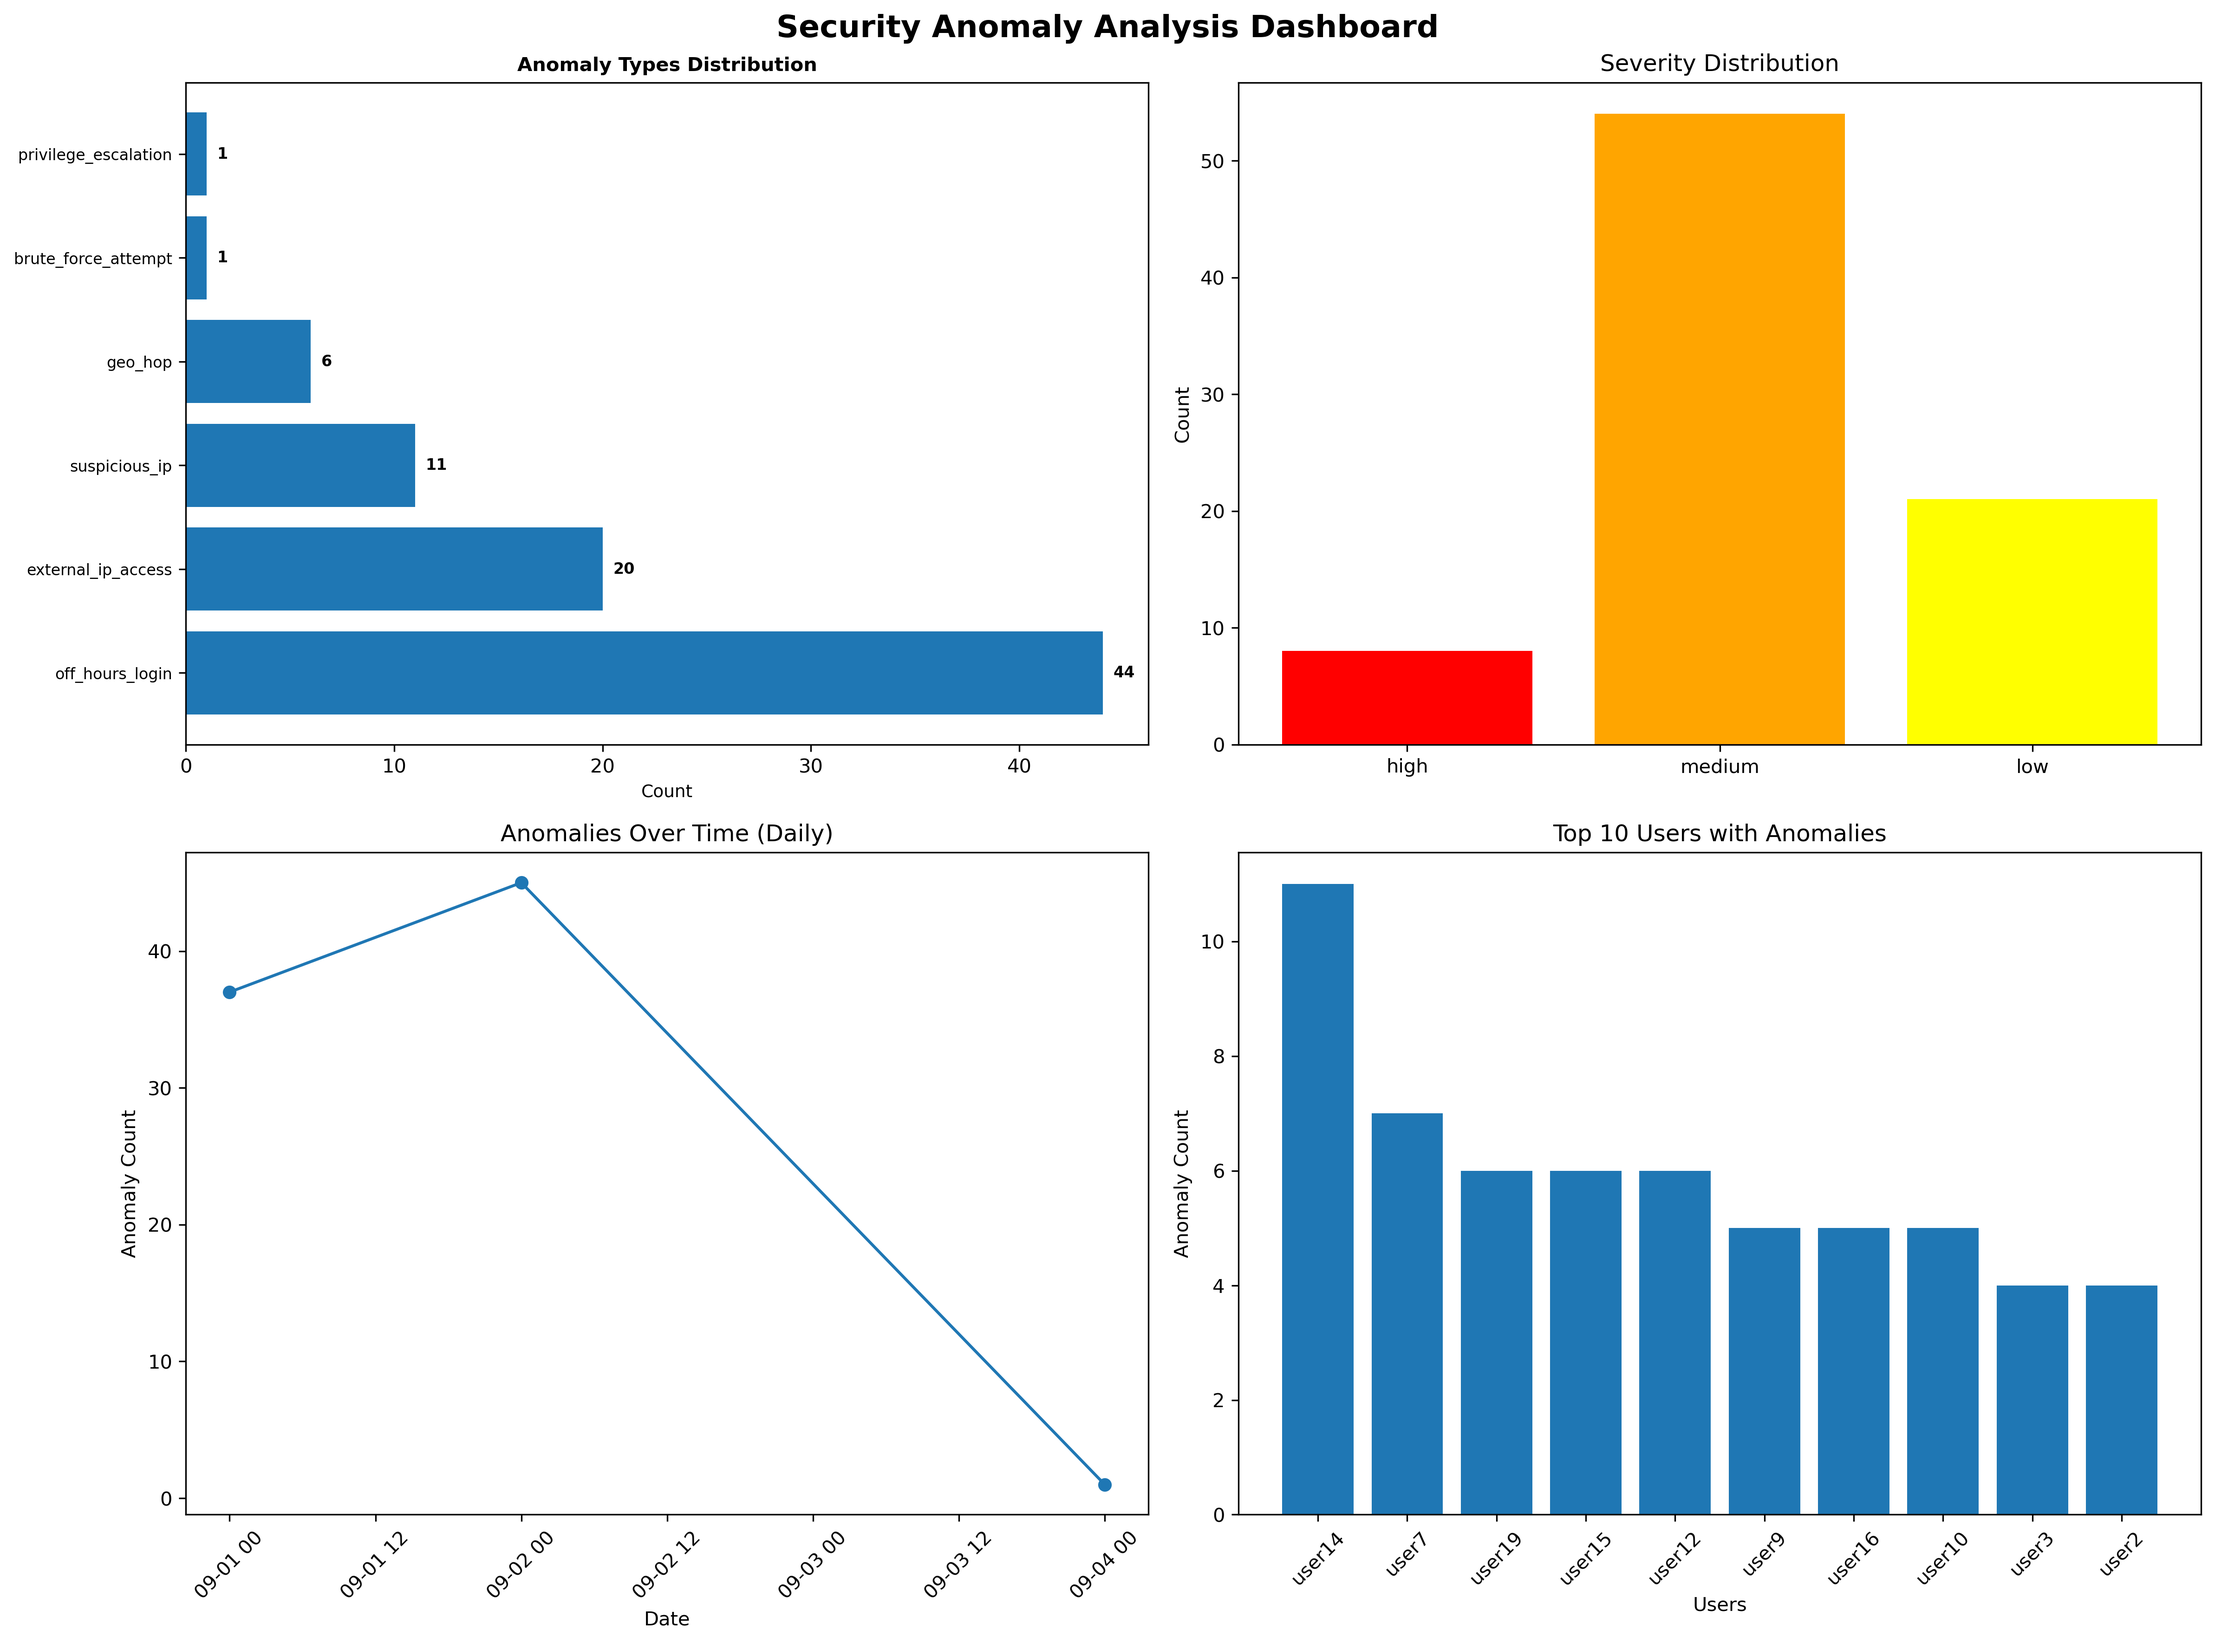
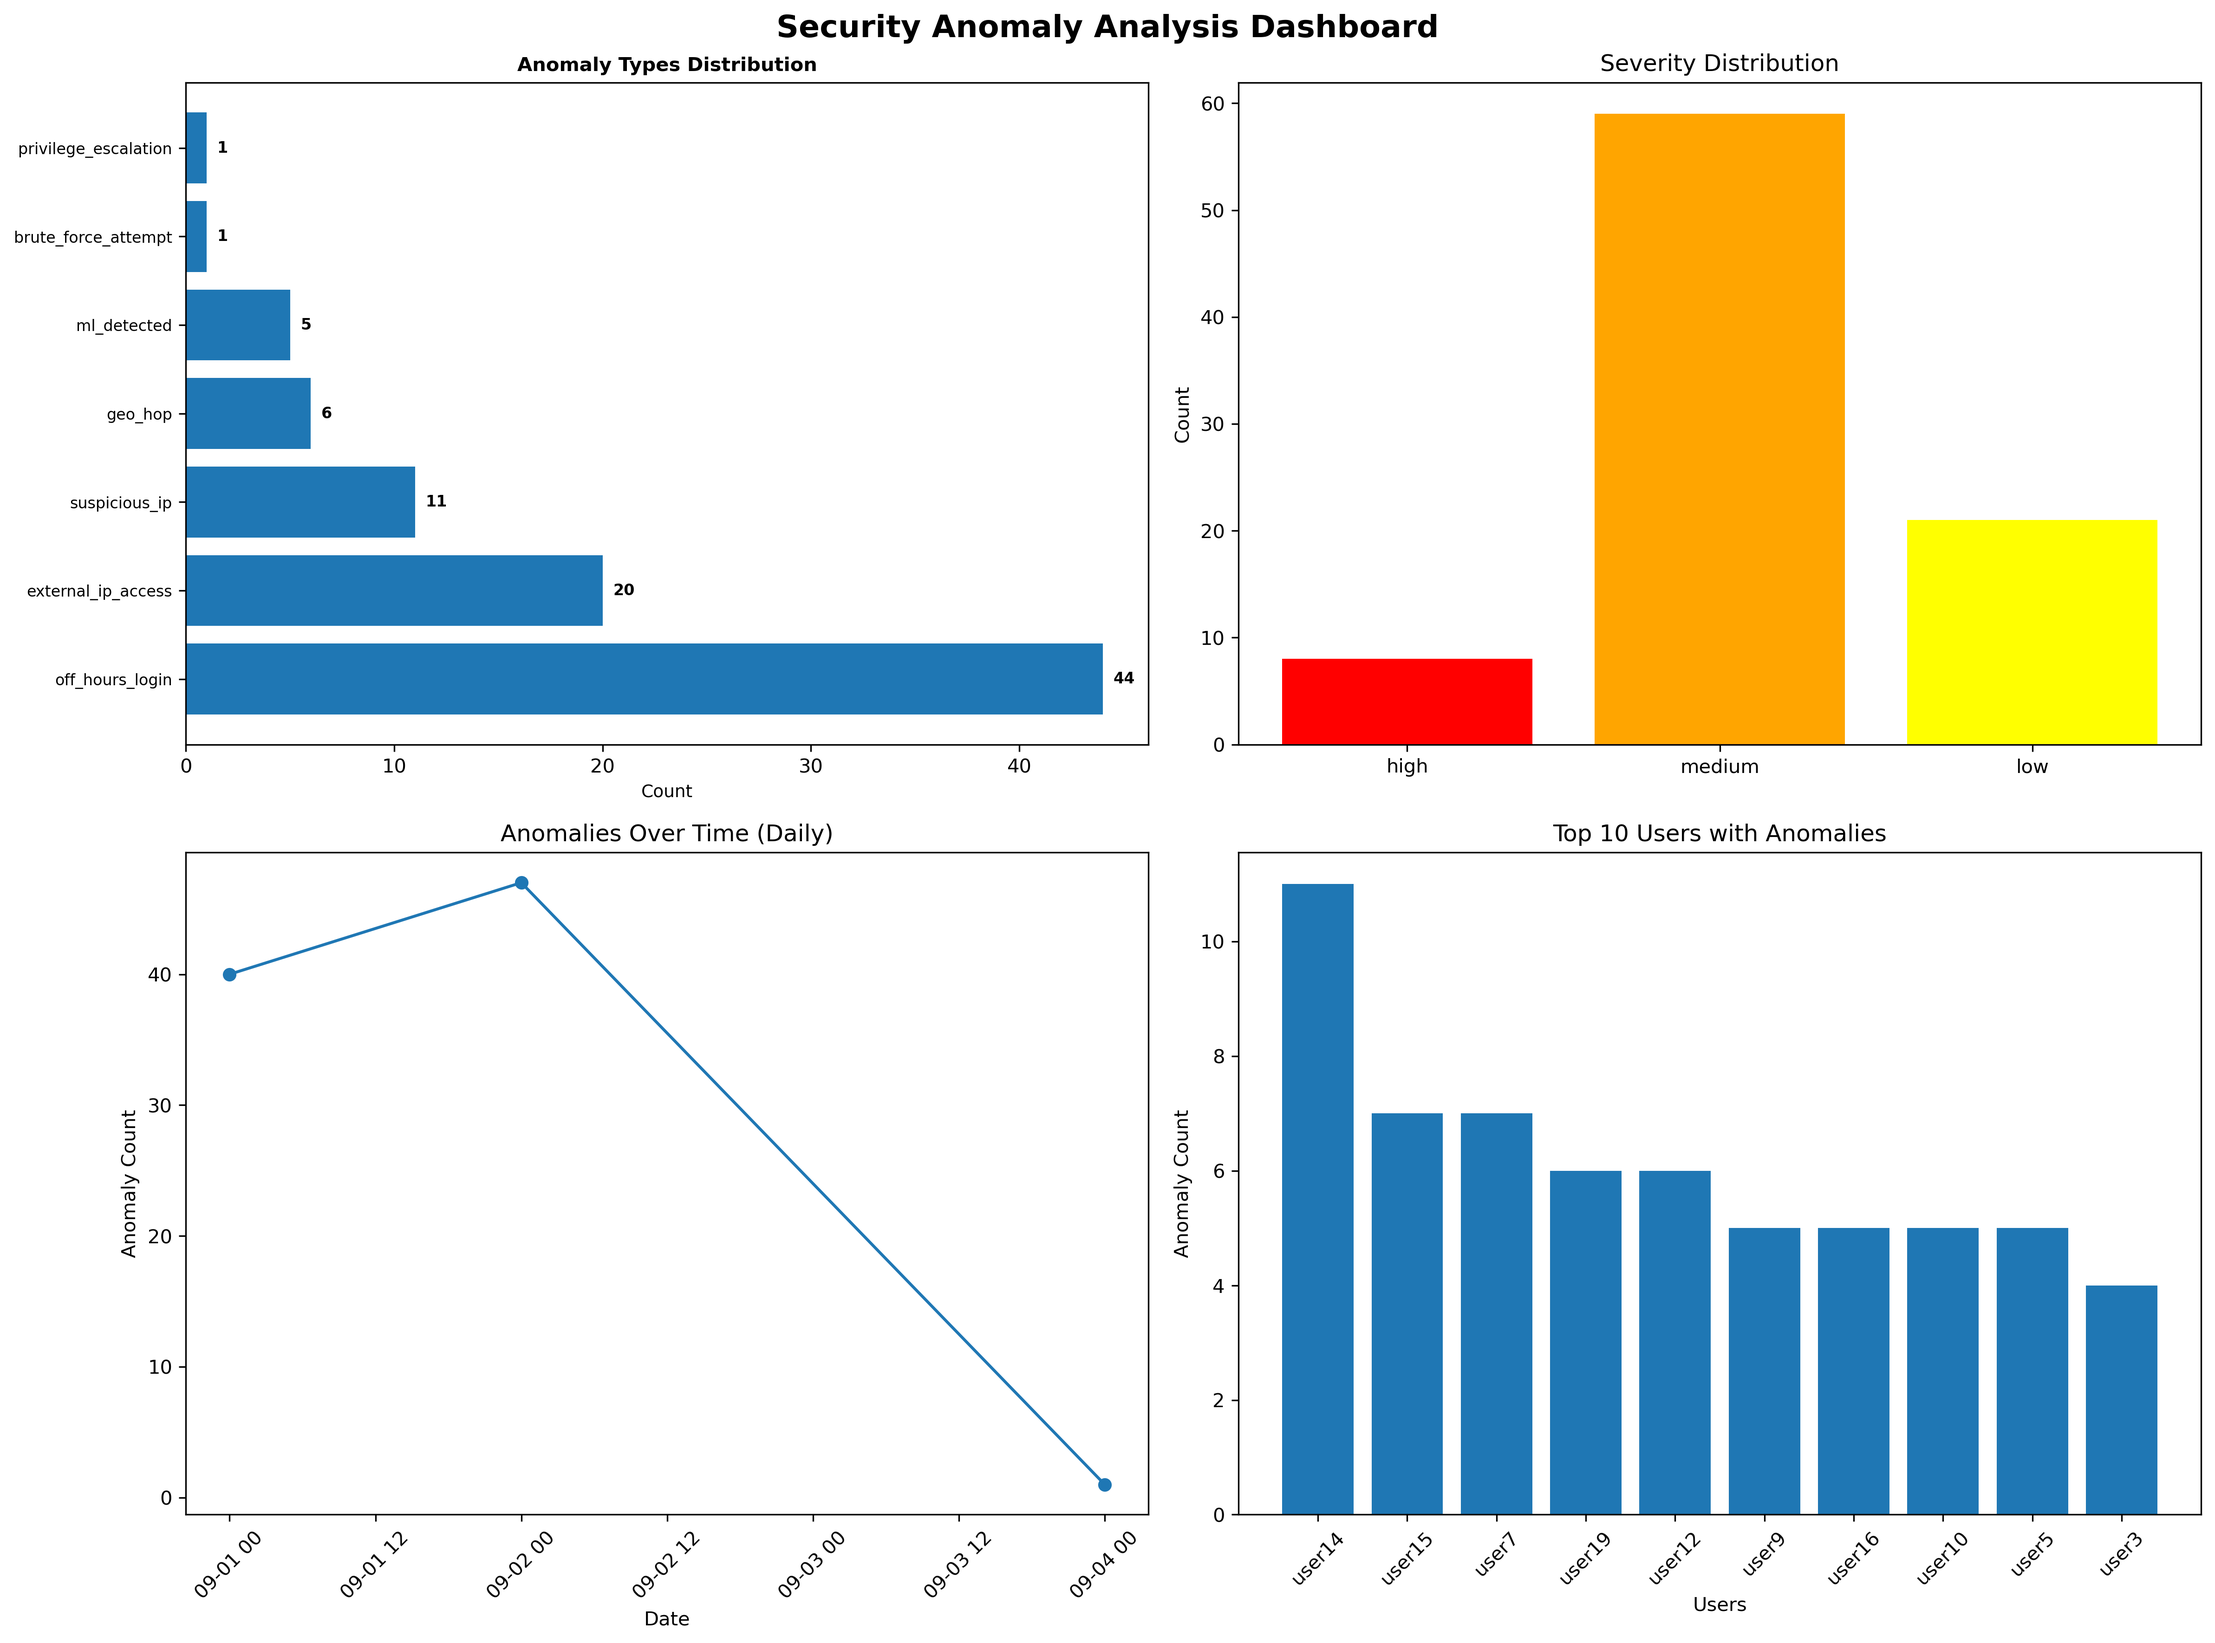
Enhance anomaly detection by integrating Isolation Forest ML model and updating README.

diff --git a/Security/detect_anomalies.py b/Security/detect_anomalies.py
@@ -11,6 +11,7 @@ from datetime import datetime, timedelta
 from collections import defaultdict, Counter
 from typing import List, Dict, Any, Tuple
 import ipaddress
+from sklearn.ensemble import IsolationForest
 
 class SecurityAnomalyDetector:
     def __init__(self, csv_file: str):
@@ -93,12 +94,13 @@ class SecurityAnomalyDetector:
                 "Alert security team for potential account takeover",
                 "Review user's recent activity for unauthorized access"
             ])
-        elif anomaly_type == 'data_exfiltration':
+        elif anomaly_type == 'ml_detected':
             mitigations.extend([
-                "Immediately suspend user account and network access",
-                "Block all download capabilities for the user",
-                "Alert security team and management immediately",
-                "Preserve all logs and evidence for investigation"
+                "Review user activity patterns for unusual behavior",
+                "Correlate with other security alerts and logs",
+                "Monitor user for additional suspicious activity",
+                "Consider additional authentication requirements",
+                "Investigate the specific features that triggered the anomaly"
             ])
         
         return mitigations
@@ -352,33 +354,52 @@ class SecurityAnomalyDetector:
                 elif row['action'] == 'login_success':
                     failed_count = 0
     
-    def detect_data_exfiltration(self):
-        """Detect potential data exfiltration (multiple downloads)."""
-        print("Detecting potential data exfiltration...")
+    
+    def detect_ml_anomalies(self):
+        """Detect anomalies using ML (Isolation Forest)."""
+        print("Detecting anomalies using ML (Isolation Forest)...")
         
-        for user in self.df['user_id'].unique():
-            user_data = self.df[self.df['user_id'] == user].sort_values('timestamp')
-            downloads = user_data[user_data['action'] == 'download_file']
+        df = self.df.copy()
+        
+        # Feature engineering
+        df['hour'] = df['timestamp'].dt.hour
+        df['action_code'] = df['action'].astype('category').cat.codes
+        df['ip_numeric'] = df['ip_address'].apply(
+            lambda ip: sum([int(part) << (8 * i) for i, part in enumerate(reversed(ip.split('.')))])
+        )
+        
+        # Prepare features for ML model
+        features = df[['hour', 'action_code', 'ip_numeric']]
+        
+        # Train Isolation Forest model
+        clf = IsolationForest(contamination=0.01, random_state=42)
+        df['ml_anomaly'] = clf.fit_predict(features)
+        
+        # Get anomalies (predicted as -1)
+        anomalies = df[df['ml_anomaly'] == -1]
+        
+        # Add ML-detected anomalies to the main anomalies list
+        for _, row in anomalies.iterrows():
+            anomaly_details = {
+                'features_used': {
+                    'hour': int(row['hour']),
+                    'action_code': int(row['action_code']),
+                    'ip_numeric': int(row['ip_numeric'])
+                },
+                'ml_model': 'IsolationForest',
+                'contamination_rate': 0.01
+            }
             
-            if len(downloads) >= 8:  # 8 or more downloads
-                time_span = downloads.iloc[-1]['timestamp'] - downloads.iloc[0]['timestamp']
-                if time_span <= timedelta(hours=1):  # Within 1 hour
-                    anomaly_details = {
-                        'download_count': len(downloads),
-                        'time_span_hours': time_span.total_seconds() / 3600,
-                        'download_times': [d['timestamp'].isoformat() for _, d in downloads.iterrows()]
-                    }
-                    
-                    self.anomalies.append({
-                        'timestamp': downloads.iloc[0]['timestamp'].isoformat(),
-                        'user_id': user,
-                        'ip_address': downloads.iloc[0]['ip_address'],
-                        'anomaly_type': 'data_exfiltration',
-                        'reason': f'User downloaded {len(downloads)} files within {time_span.total_seconds()/3600:.1f} hours',
-                        'severity': 'high',
-                        'details': anomaly_details,
-                        'mitigation_suggestions': self.get_mitigation_suggestions('data_exfiltration', 'high', anomaly_details)
-                    })
+            self.anomalies.append({
+                'timestamp': row['timestamp'].isoformat(),
+                'user_id': row['user_id'],
+                'ip_address': row['ip_address'],
+                'anomaly_type': 'ml_detected',
+                'reason': 'Flagged as anomaly by Isolation Forest model',
+                'severity': 'medium',
+                'details': anomaly_details,
+                'mitigation_suggestions': self.get_mitigation_suggestions('ml_detected', 'medium', anomaly_details)
+            })
     
     def run_analysis(self):
         """Run all anomaly detection algorithms."""
@@ -393,7 +414,7 @@ class SecurityAnomalyDetector:
         self.detect_geo_hops()
         self.detect_off_hours_activity()
         self.detect_privilege_escalation()
-        self.detect_data_exfiltration()
+        self.detect_ml_anomalies()
         
         print("=" * 50)
         print(f"Analysis complete! Found {len(self.anomalies)} anomalies.")

diff --git a/Security/README.md b/Security/README.md
@@ -5,7 +5,7 @@ A Python-based system that analyzes activity logs to detect suspicious patterns 
 
 ## Detection Approach
 
-The system uses **rule-based pattern recognition** with multiple detection algorithms:
+The system uses **rule-based pattern recognition** combined with **machine learning** for comprehensive anomaly detection:
 
 ### Core Detection Methods
 1. **Brute Force Detection**: Detected multiple (3 or more) failed login attempts from the same IP address within 10 minutes, indicating a potential brute-force attack.
@@ -13,16 +13,18 @@ The system uses **rule-based pattern recognition** with multiple detection algor
 3. **external_ip_access**: A login attempt was made from an external IP address (outside private/internal ranges) during non-business hours, raising suspicion of unauthorized access.
 4. **Geo-hop Detection**: A user switched between significantly different IP ranges (e.g., internal to external) within a short time window, suggesting a possible VPN usage or location spoofing.
 5. **Privilege Escalation**: A successful login was preceded by multiple failed attempts, possibly indicating a successful password guessing or account compromise.
-6. **Data Exfiltration**: A user downloaded 8 or more files within 1 hour, potentially signaling data exfiltration or unauthorized bulk access.
-7. **Off-hours Activity**: An entry is flagged as an anomaly if a user attempts to log in (either login_success or login_failed) outside of business hours (before 8:00 AM or after 6:00 PM), and one of the following is true:
+6. **Off-hours Activity**: An entry is flagged as an anomaly if a user attempts to log in (either login_success or login_failed) outside of business hours (before 8:00 AM or after 6:00 PM), and one of the following is true:
 The login comes from an external IP address → flagged as medium severity.
 OR
 The login attempt fails, regardless of IP type → flagged as low severity.
+7. **ML Anomaly Detection**: Uses Isolation Forest machine learning algorithm to identify unusual patterns in user behavior based on timing, action types, and IP addresses. Detects approximately 1% of the most anomalous activities that may not be caught by rule-based methods.
 
 
 ### Technical Implementation
 - **Time-based Analysis**: Sliding window algorithms for temporal pattern detection
 - **IP Network Analysis**: Uses Python's `ipaddress` module for network range classification
+- **Machine Learning**: Isolation Forest algorithm for unsupervised anomaly detection
+- **Feature Engineering**: Converts timestamps, actions, and IP addresses into ML-compatible features
 - **Severity Classification**: High/Medium/Low based on threat level
 - **Statistical Processing**: Pandas for efficient data manipulation and grouping
 
@@ -58,24 +60,11 @@ Security/
 ├── visualize_anomalies.py        # Visualization generator
 ├── sample_logs_no_status.csv     # Input data
 ├── anomalies_report.json         # Analysis results
-├── anomaly_analysis_dashboard.png # Visual dashboard
 └── requirements.txt              # Dependencies
 ```
 
 ## Dependencies
-- `pandas>=1.3.0`: Data processing
-- `ipaddress`: IP network analysis
-- `matplotlib`: Visualization
-
-## Sample Results
-From 416 log entries, the system typically detects:
-- **215 total anomalies** (11 high-severity, 204 medium-severity)
-- **1 brute force attack** from external IP
-- **10 privilege escalation** attempts
-- **Multiple geo-hops** and external IP access patterns
-
-## Security Features
-- **Offline Analysis**: No external network calls
-- **Local Processing**: All data processed locally
-- **Comprehensive Coverage**: Multiple attack vector detection
-- **Visual Analytics**: Charts and statistical summaries
+- `pandas>=1.3.0`: Data processing and analysis
+- `scikit-learn>=1.0.0`: Machine learning algorithms (Isolation Forest)
+- `matplotlib>=3.5.0`: Data visualization and dashboard generation
+- `ipaddress`: IP network analysis (built-in Python module)
